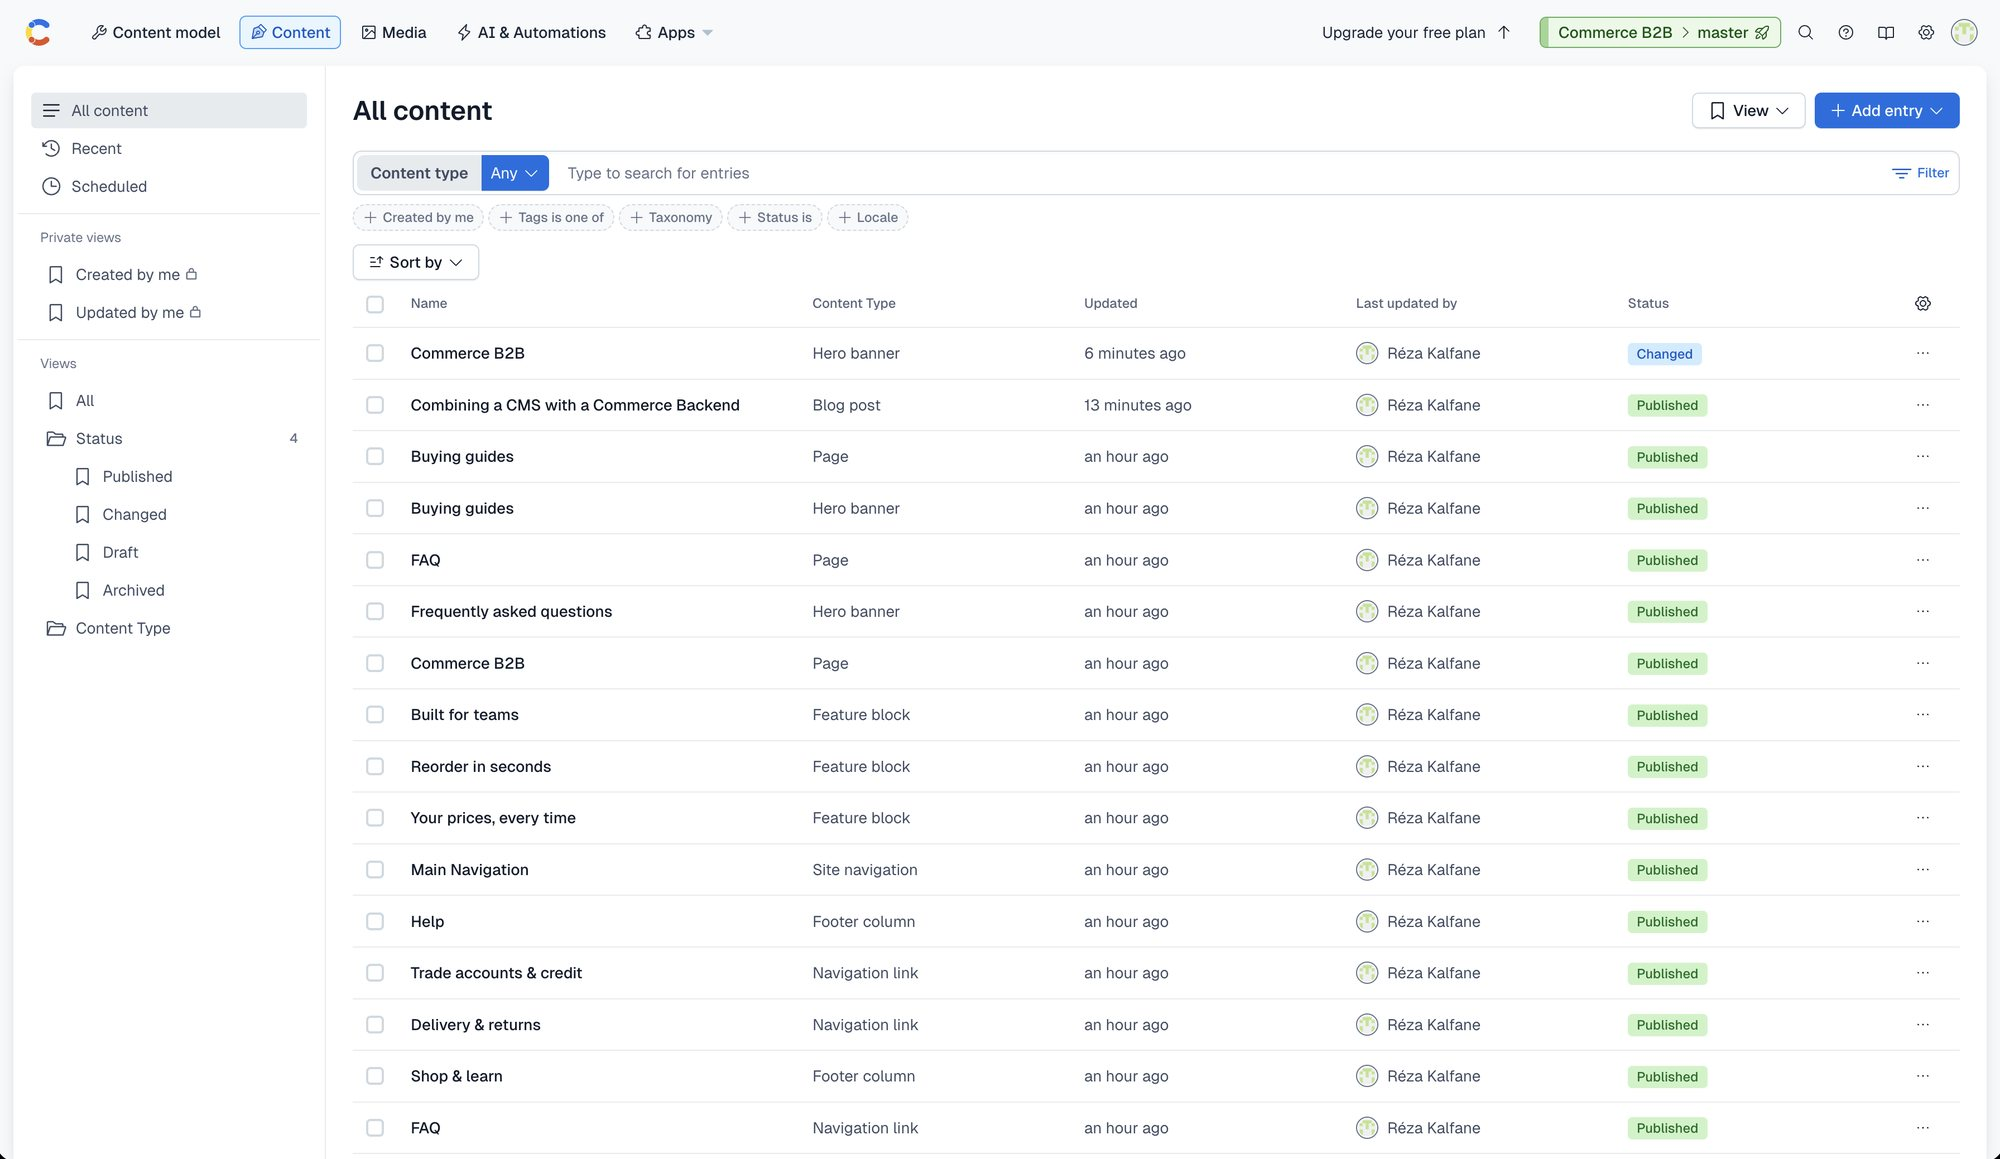
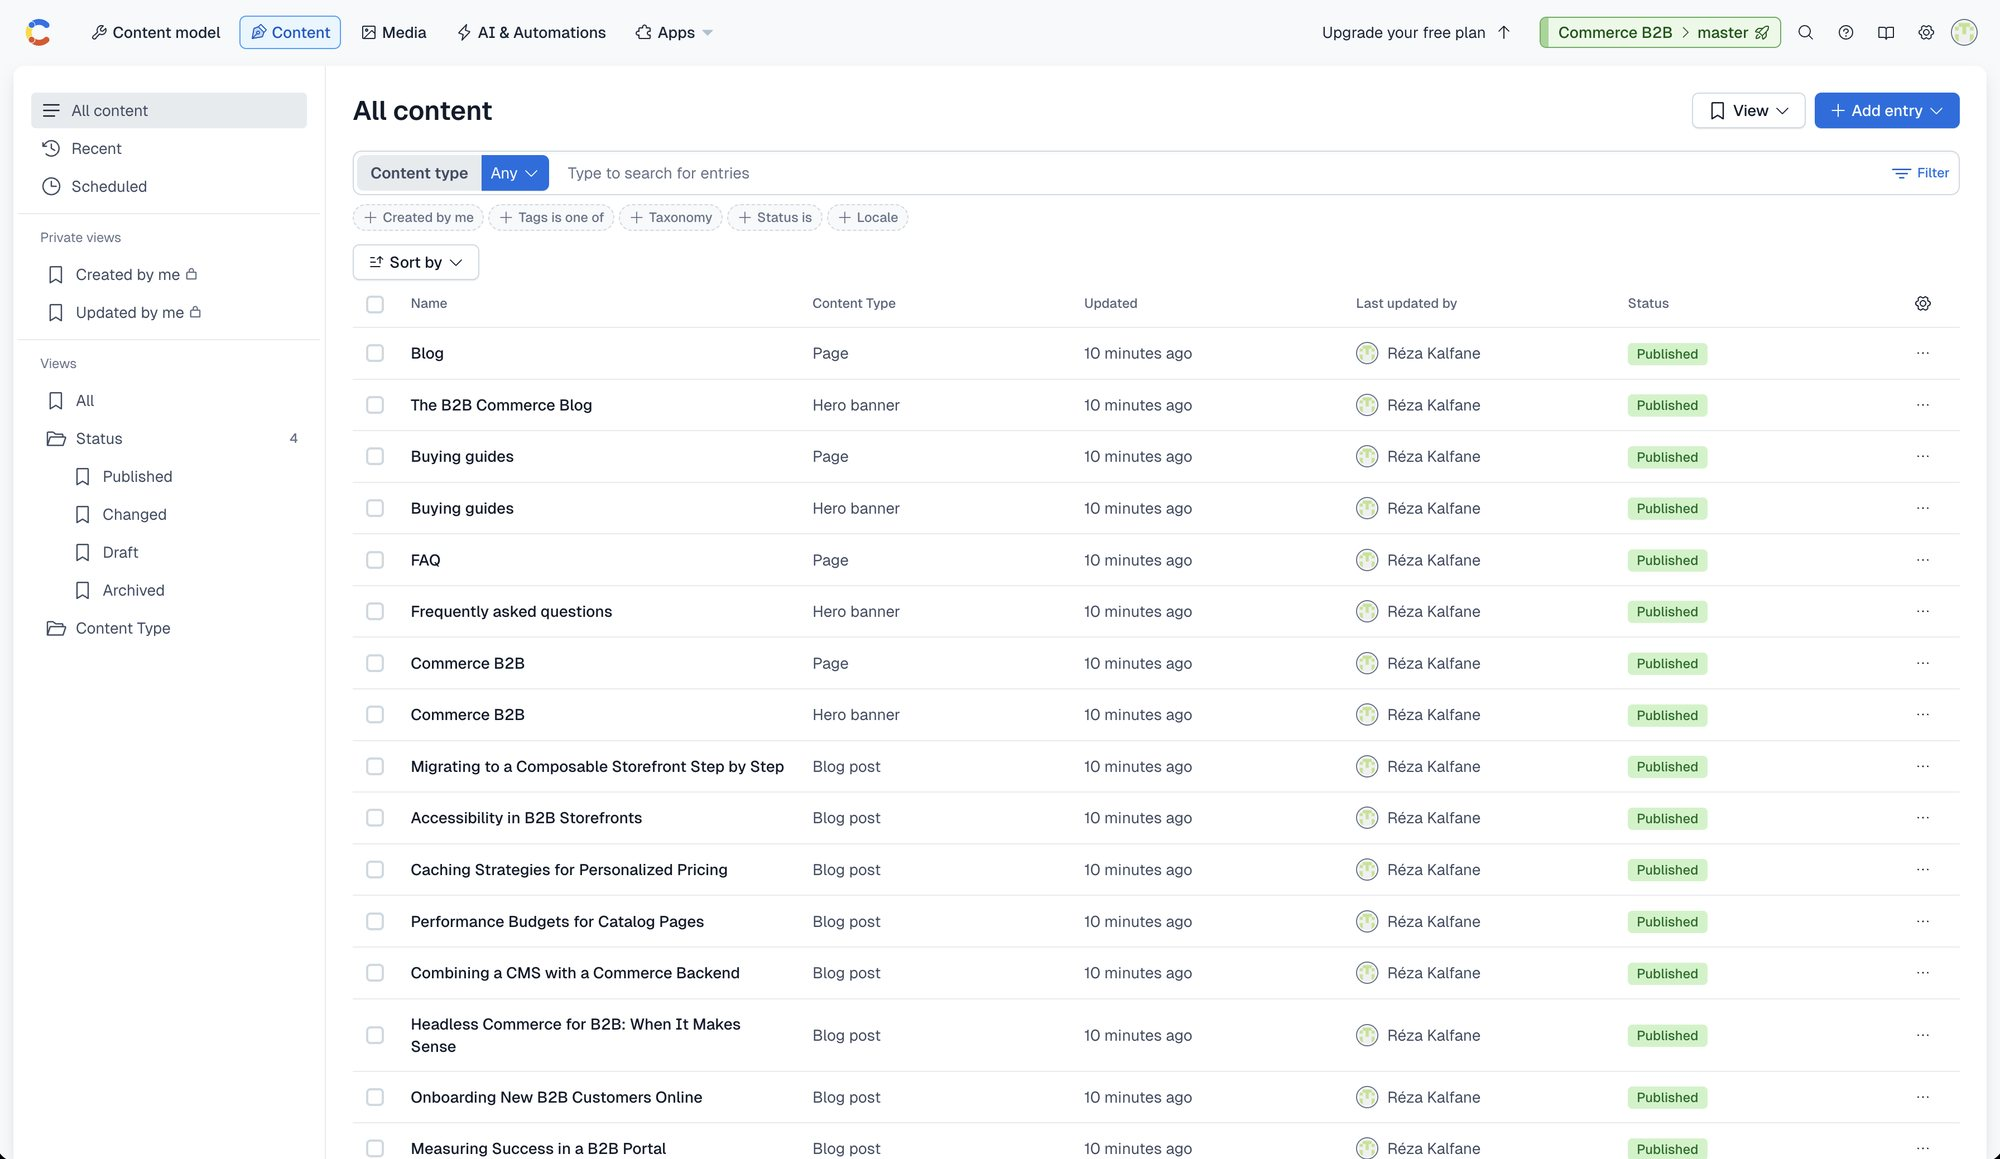
Live Preview: reordering or removing blocks shows while you drag; refreshed screenshots
The typed-edit overlay now carries links, so a reordered list of components re-resolves from the entries the page already has.
The page's component list carries the page's edit attributes so the page entry is subscribed.

diff --git a/providers/cms/contentful/client.ts b/providers/cms/contentful/client.ts
@@ -21,16 +21,32 @@ export type Fields = Record<string, any>;
 export type Entry = { id: string; type: string; locale: string; fields: Fields };
 
 // ---------------------------------------------------------------- unsaved edits (live typing)
+/** A link to an entry or asset, as stored in the entry's fields. */
+export type LinkValue = { sys: { type: "Link"; linkType: "Entry" | "Asset"; id: string } };
+export const isLinkValue = (v: unknown): v is LinkValue => {
+  const s = (v as LinkValue | null)?.sys;
+  return !!s && typeof v === "object" && s.type === "Link" && (s.linkType === "Entry" || s.linkType === "Asset") && typeof s.id === "string";
+};
+
 /**
- * A value the preview overlay can carry: text and dates (strings), numbers, booleans, lists of those, and rich text documents.
- * Links to entries and assets are not (their targets would have to be fetched).
+ * A value the preview overlay can carry: text and dates (strings), numbers, booleans, lists of those, rich text documents, and links
+ * to entries/assets. Links only show when their target is already part of the page (a reordered or removed block); a block added in
+ * the editor appears once the entry is saved, because its content has not been fetched.
  */
-export type OverlayValue = string | number | boolean | (string | number)[] | { nodeType: "document"; [k: string]: unknown };
+export type OverlayValue =
+  | string
+  | number
+  | boolean
+  | (string | number)[]
+  | LinkValue
+  | LinkValue[]
+  | { nodeType: "document"; [k: string]: unknown };
 export const isOverlayValue = (v: unknown): v is OverlayValue =>
   typeof v === "string" ||
   typeof v === "number" ||
   typeof v === "boolean" ||
-  (Array.isArray(v) && v.every((x) => typeof x === "string" || typeof x === "number")) ||
+  isLinkValue(v) ||
+  (Array.isArray(v) && (v.every((x) => typeof x === "string" || typeof x === "number") || v.every(isLinkValue))) ||
   (!!v && typeof v === "object" && (v as { nodeType?: unknown }).nodeType === "document");
 
 /** A draft entry as the Live Preview SDK needs it: the saved overlay-able field values for one locale. */
@@ -81,13 +97,15 @@ function resolve(res: Response, locale: string, isDraft: boolean): Entry[] {
       }
       return v;
     };
-    const fields: Fields = {};
-    for (const [k, v] of Object.entries(r.fields ?? {})) fields[k] = walk(v);
+    // Unsaved values typed in the editor replace the saved draft value (before links are resolved, so a reordered list of links
+    // resolves to the same entries in the new order).
+    const source: Fields = { ...(r.fields ?? {}) };
     if (isDraft && type !== "Asset") {
-      // Unsaved values typed in the editor replace the saved draft value.
       const edits = overlayFor(r.sys.id, locale);
-      if (edits) for (const [k, v] of Object.entries(edits)) if (isOverlayValue(fields[k])) fields[k] = v;
+      if (edits) for (const [k, v] of Object.entries(edits)) if (source[k] === undefined || isOverlayValue(source[k])) source[k] = v;
     }
+    const fields: Fields = {};
+    for (const [k, v] of Object.entries(source)) fields[k] = walk(v);
     return { id: r.sys.id, type, locale, fields };
   };
   return res.items.map((r) => build(r, 3));

diff --git a/providers/cms/contentful/live-preview.tsx b/providers/cms/contentful/live-preview.tsx
@@ -20,6 +20,18 @@ function entitiesIn(node: unknown, out: Entity[] = []): Entity[] {
   return out;
 }
 
+/** Links as plain `{ sys: { type: "Link", linkType, id } }` (the editor may send resolved entries or links), so lists compare by what they point at. */
+function normalize(value: unknown): unknown {
+  const link = (x: unknown) => {
+    const sys = (x as { sys?: { type?: string; linkType?: string; id?: unknown } } | null)?.sys;
+    if (!sys || typeof sys.id !== "string") return undefined;
+    const linkType = sys.type === "Link" ? sys.linkType : sys.type;
+    return linkType === "Entry" || linkType === "Asset" ? { sys: { type: "Link", linkType, id: sys.id } } : undefined;
+  };
+  if (Array.isArray(value) && value.length && value.every((x) => link(x))) return value.map(link);
+  return link(value) ?? value;
+}
+
 /** A field value as the editor sends it: plain for one locale, or keyed by locale code when it carries every locale. */
 function localized(value: unknown, locale: string): unknown {
   return value && typeof value === "object" && !Array.isArray(value) && locale in (value as object) ? (value as Record<string, unknown>)[locale] : value;
@@ -32,7 +44,8 @@ function localized(value: unknown, locale: string): unknown {
  * - Typing: the entries tagged on the page are looked up on the server (`previewBaseline`: their saved draft values) and handed to the
  *   SDK, which sends them to the editor and gets their unsaved values back. Changed fields go to the server (`updatePreviewOverlay`),
  *   which stores them and re-renders the page in the same response, so changes show up as they are made: text and dates, numbers,
- *   booleans, lists and rich text. Links to entries and media are not overlaid; they appear after the entry is saved.
+ *   booleans, lists, rich text, and the order of linked blocks. A block added or media replaced in the editor appears after the
+ *   entry is saved.
  * - Saving: the overlays and the short draft cache are dropped and the page is re-rendered from the Preview API.
  *   `enableLiveUpdates` must be on for the SDK to deliver both the edit and the save events.
  */
@@ -103,8 +116,8 @@ export function LivePreview({ space, environment }: { space: string; environment
                   if (!base) continue;
                   const changed: Record<string, OverlayValue> = {};
                   for (const [k, raw] of Object.entries(u.fields)) {
-                    const v = localized(raw, locale);
-                    if (k in base.fields && isOverlayValue(v) && JSON.stringify(v) !== JSON.stringify(base.fields[k])) changed[k] = v;
+                    const v = normalize(localized(raw, locale));
+                    if (k in base.fields && isOverlayValue(v) && JSON.stringify(v) !== JSON.stringify(normalize(base.fields[k]))) changed[k] = v;
                   }
                   edits.push({ id: base.id, locale: base.locale, fields: changed });
                 }

diff --git a/providers/cms/contentful/actions.ts b/providers/cms/contentful/actions.ts
@@ -3,7 +3,7 @@
 import { refresh } from "next/cache";
 import type { Locale } from "@/lib/i18n";
 import { previewGate } from "@/providers/cms/gates";
-import { clearDraftCache, getBaseline, isOverlayValue, setOverlay, type OverlayValue, type PreviewEntity } from "./client";
+import { clearDraftCache, getBaseline, isLinkValue, isOverlayValue, setOverlay, type OverlayValue, type PreviewEntity } from "./client";
 
 export type PreviewEdit = { id: string; locale: string; fields: Record<string, OverlayValue> };
 
@@ -35,7 +35,10 @@ export async function updatePreviewOverlay(secret: string, edits: PreviewEdit[],
     if (!ID.test(e.id) || !LOCALE.test(e.locale)) continue;
     const fields: Record<string, OverlayValue> = {};
     for (const [k, v] of Object.entries(e.fields ?? {})) {
-      if (FIELD.test(k) && isOverlayValue(v) && JSON.stringify(v).length <= 200_000) fields[k] = v;
+      if (!FIELD.test(k) || !isOverlayValue(v) || JSON.stringify(v).length > 200_000) continue;
+      const links = Array.isArray(v) ? v.filter(isLinkValue) : isLinkValue(v) ? [v] : [];
+      if (links.some((l) => !ID.test(l.sys.id))) continue;
+      fields[k] = v;
     }
     setOverlay(e.id, e.locale, fields);
   }

diff --git a/components/page-content.tsx b/components/page-content.tsx
@@ -1,3 +1,4 @@
+import { tag } from "@/core/edit";
 import { GuideView } from "@/components/guide-view";
 import { PageBlocks } from "@/components/page-blocks";
 import { PostView } from "@/components/post-view";
@@ -7,7 +8,12 @@ import type { Locale } from "@/lib/i18n";
 /** The content of a route: the Page for a key, an article, a guide. */
 export async function PageContent({ pageKey, locale, path, q }: { pageKey: string; locale: Locale; path?: string; q?: string }) {
   const page = await getPage(pageKey, locale);
-  return page ? <PageBlocks blocks={page.blocks} locale={locale} path={path} q={q} /> : null;
+  return page ? (
+    // `contents`: the wrapper only carries the edit attributes of the component list (reordering), it adds no box to the layout
+    <div {...tag(page, "components")} className="contents">
+      <PageBlocks blocks={page.blocks} locale={locale} path={path} q={q} />
+    </div>
+  ) : null;
 }
 
 export async function PostContent({ slug, locale }: { slug: string; locale: Locale }) {

diff --git a/docs/visual-editor.md b/docs/visual-editor.md
@@ -23,8 +23,8 @@ Contentful web app ── "Open Live Preview" ──► storefront page  ?cf_pre
    lists, rich text) are sent to `updatePreviewOverlay`, which keeps them in memory for five minutes and calls `refresh()` so the page is
    re-rendered in the same response, so changes appear as they are made (D31).
 5. When the editor **saves** an entry (Contentful autosaves shortly after typing stops), the SDK delivers a save event, the overlay and
-   the 5-second draft cache are cleared and the page is re-rendered from the new draft. Links to entries and media (including a reordered
-   block list) update at this step.
+   the 5-second draft cache are cleared and the page is re-rendered from the new draft. A block added in the editor and replaced media
+   update at this step; reordering or removing blocks already shows while you drag.
 
 ![Entry editor with Open Live Preview](images/cf-entry-editor.jpg)
 *The entry form: the sidebar has **Open Live Preview** under Preview. (This screenshot shows a post from before the block model: the body is now a list of content blocks.)*
@@ -38,7 +38,11 @@ English buying guide: the outlined title is focused and its field is open in the
 The home page: hero, image, intro and blocks are all tagged.
 
 ![Inspector mode on the home page](images/cf-live-preview-home.jpg)
-*Live Preview: dashed outlines mark the editable elements; clicking one focuses its field in the form. (This screenshot predates the block model: the intro was a field of the page and is now a text block.)*
+*Live Preview of the home page after reordering its components and publishing: the text block `Home intro` now sits above the hero. Reordering or removing blocks also shows while you drag (D31).*
+
+A page is an ordered list of components; drag them to reorder:
+
+![The components of the home page in the entry editor](images/cf-page-components.jpg)
 
 ## How draft mode is switched on
 
@@ -116,9 +120,9 @@ With a Premium plan the editor's locale menu would pass `fr` and the template wo
 
 1. In Contentful open **Content**, pick an entry (a blog post, a guide, the `home` page…).
 2. Click **Open Live Preview** in the sidebar.
-3. To reorder the page, open the `page` entry and drag the entries in **Components**; click an outlined element to edit its field; type: text, dates, numbers, lists and rich text show up as you type, links and media after the autosave. **Publish** makes the change live.
+3. To reorder the page, open the `page` entry and drag the entries in **Components**; click an outlined element to edit its field; type: text, dates, numbers, lists, rich text and the order of the blocks show up as you type, an added block or replaced media after the autosave. **Publish** makes the change live.
 
-Typed updates cover every field type except links to entries and media (D31): those follow each save.
+Typed updates cover every field type, including the order of linked blocks, except a block added in the editor and replaced media (D31): those follow each save.
 
 ## Troubleshooting
 
@@ -135,7 +139,5 @@ Typed updates cover every field type except links to entries and media (D31): th
 
 ## Screenshots to refresh
 
-These images in `docs/images/` predate the block model (they show the 15 earlier content types or fields that no longer exist) and are kept with a note
-until they are retaken: `cf-content-model.jpg` (content types list), `cf-content-list.jpg` (content list with `Blog listing page`),
-`cf-entry-editor.jpg` (a post with a `Body` field), `cf-live-preview-home.jpg` (home page when the intro was a field) and
-`cf-live-preview-en.jpg` (a post whose body was one rich-text field).
+These images in `docs/images/` predate the block model (a post with a `Body` field) and are kept until they are retaken:
+`cf-entry-editor.jpg` and `cf-live-preview-en.jpg`.

diff --git a/docs/decisions.md b/docs/decisions.md
@@ -190,14 +190,18 @@ which limit). It worked after the user deleted an unused `staging` space.
 **Why.** The French page then renders with French draft content, and the edit tags carry `data-contentful-locale`, so clicking an element focuses the French field.
 **Consequence.** The "editor opens the French page" goal is met by one extra click on the Free plan, and fully with a Premium plan.
 
-### D31. Unsaved edits through a server overlay; links and media after save
+### D31. Unsaved edits through a server overlay; added blocks and replaced media after save
 **Decision.** `enableLiveUpdates` is `true` (the SDK delivers the edit and save events only then). While the editor types, the SDK
 answers the page's subscription with the entries' unsaved values. `providers/cms/contentful/live-preview.tsx` finds the entries tagged on the page, gets their saved values from the server action
 `previewBaseline`, compares the editor's answers with them and sends the changed fields to `updatePreviewOverlay`
 (`providers/cms/contentful/actions.ts`). The action stores them in server memory for five minutes (`setOverlay` in `client.ts`) and calls `refresh()` (Next 16), which re-renders the open page
-**in the same response**. Covered: text and long text, dates, numbers, booleans, lists of strings and rich text documents. Not covered:
-links to entries and media (their targets would have to be fetched); they appear after the entry is saved, which also clears the
-overlay and the draft cache.
+**in the same response**. Covered: text and long text, dates, numbers, booleans, lists of strings, rich text documents and links to
+entries or media that the page already has. That includes **reordering or removing blocks** in a `page.components` list (or a post's
+`content`): the overlay holds the new list of links and the server re-resolves it from the entries it already fetched. Not covered: a
+block **added** in the editor, or media replaced by another one (their content has not been fetched); they appear after the entry is
+saved, which also clears the overlay and the draft cache. Reordering showed only after a save at first (found in the real editor); the
+page component list therefore carries the page's edit attributes (a `contents` wrapper in `components/page-content.tsx`) so the
+page entry is subscribed.
 **Why.** Contentful's live updates patch **client-side data** (`useContentfulLiveUpdates`), and these pages are server-rendered with
 the mapped model. An overlay keeps the page components unchanged.
 **Speed.** First version: a server action then a separate `router.refresh()` (two round trips per change, and Next runs server actions

diff --git a/docs/contentful.md b/docs/contentful.md
@@ -28,9 +28,15 @@ verified with the preview secret ([visual-editor.md](visual-editor.md#how-draft-
 
 ## Content model
 
-![The content types (this screenshot predates the block model: it shows the 15 earlier types)](images/cf-content-model.jpg)
+![The 18 content types](images/cf-content-model.jpg)
 
-*This screenshot predates the block model (it lists the 15 earlier types, including `Blog listing page`); the model now has 18.*
+The `Page` type is a title, a slug, a description, an ordered list of **components** and the SEO fields:
+
+![Fields of the Page content type](images/cf-page-fields.jpg)
+
+How the types link to each other (pages and posts point at block types; collection blocks point at guides, spotlights, posts and FAQs):
+
+![The Visual Modeler graph of the content model](images/cf-visual-modeler.jpg)
 
 A content type's fields, with the localization marker on the translatable ones:
 
@@ -112,7 +118,6 @@ Each routable entry has a **unique `slug`** field (not localized: slugs are shar
 
 ![The content list with entry types and statuses](images/cf-content-list.jpg)
 
-*This screenshot predates the block model (it lists the earlier types and the `Blog listing page`).*
 
 The 62 images live in the media library:
 

diff --git a/docs/operations.md b/docs/operations.md
@@ -140,5 +140,5 @@ Changing a variable needs a redeploy to take effect.
 - Published content is cached for 60 seconds (no webhook revalidation yet).
 - There is no approval gate between editing and publishing (the ContentStack version had a workflow and publishing rule; Contentful
   workflows are not configured here).
-- Live Preview shows typed values as they are typed (server overlay, D31; links and media after each save); on the Free plan the editor cannot switch the preview locale, so French is reached with the site's own language switcher ([decisions.md](decisions.md) D30, D31).
+- Live Preview shows typed values as they are typed (server overlay, D31; a block added or media replaced after each save); on the Free plan the editor cannot switch the preview locale, so French is reached with the site's own language switcher ([decisions.md](decisions.md) D30, D31).
 - Search on the blog is a simple in-memory text match over the 100 most recent posts.

diff --git a/README.md b/README.md
@@ -34,7 +34,7 @@ no Amplience code.
 | **Cart** | Add to cart, dynamic quantity stepper with instant totals, remove, hosted checkout hand-off |
 | **Content** | Blog (36 articles, 6 authors), 6 buying guides, 15 FAQs, banners, announcement bar, navigation |
 | **Languages** | English and French: routes, UI text, prices, dates and all Contentful content (field-level localization) |
-| **Editing** | Contentful Live Preview: click an element to jump to its field, reorder blocks, typed changes appear as you type (links and media after save); French through the site's language switcher |
+| **Editing** | Contentful Live Preview: click an element to jump to its field, reorder blocks, typed changes appear as you type (a block added or media replaced after save); French through the site's language switcher |
 | **Design** | "Workbench": light theme, 1100px pages, photography-led |
 
 ## Screenshots
